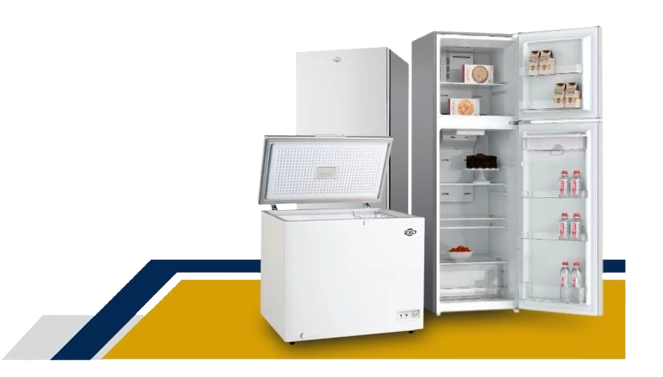
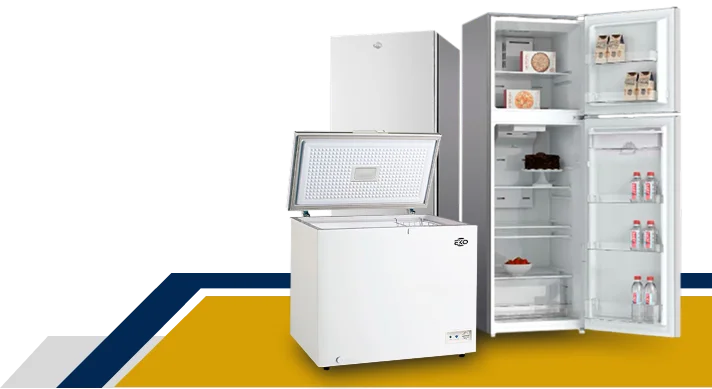
chore: update image assets and adjust home section layout
- Replace product images (vent.webp, pot.webp, etc.) with new assets (fan.webp, Illustration.webp)
- Update image references in banner and product section components
- Adjust responsive layout and spacing in the "More Products" section
- Improve product descriptions with more relevant marketing copy

diff --git a/sections/home/sectionMoreproducts.tsx b/sections/home/sectionMoreproducts.tsx
@@ -43,18 +43,18 @@ export default function SectionMoreproducts() {
           </h3>
       </div>
 
-      <div className="flex  flex-col mx-4 mt-5 sm:mt-0 xl:flex-row justify-center items-center gap-5">
+      <div className="flex  flex-col mx-4 mt-5 sm:mt-0 xl:flex-row justify-between xl:justify-center items-center xl:items-end gap-5 xl:mx-20 ">
+
         <div
           id="card1"
           data-animate="animate__backInLeft"
-          className=" flex justify-center items-center w-auto sm:w-140 2xl:w-160 xl:mt-7 xl:ml-20  overflow-hidden rounded-xl animate-on-scroll "
+          className=" flex justify-center items-center w-auto sm:w-140  xl:w-160  xl:mt-7   overflow-hidden animate-on-scroll max-w-100 sm:max-w-none "
         >
           <div className="z-10 w-1/3  xl:mb-10">
             <div className="text-black  ">
               <h4 className="font-bold text-xl">Ventiladores</h4>
-              <p className="text-xs w-42 sm:text-base sm:w-64 2xl:w-72">
-                Lorem ipsum dolor sit amet consectetur adipiscing elit hendrerit
-                scelerisque.
+              <p className="text-xs w-42 sm:text-base sm:w-64  xl:w-60 2xl:w-72">
+              Frescura y confort para cada ambiente, con modelos eficientes que se adaptan a cualquier espacio.
               </p>
               <div className="mt-5 w-30 sm:w-auto">
                 <ButtonPromoHome1
@@ -69,7 +69,7 @@ export default function SectionMoreproducts() {
 
           <div>
             <img
-              src="/images/vent.webp"
+              src="/images/fan.webp"
               alt="vent"
               className=" object-cover "
             />
@@ -79,13 +79,12 @@ export default function SectionMoreproducts() {
         <div
           id="card2"
           data-animate="animate__backInRight"
-          className=" flex w-auto  sm:w-140 2xl:w-160  justify-center items-center   animate-on-scroll"
+          className=" flex w-auto  sm:w-140 xl:w-160  justify-center items-center   animate-on-scroll max-w-100 sm:max-w-none "
         >
           <div className="w-1/9   text-black z-10 xl:mb-5">
-            <h4 className="font-bold text-xl w-50">Refrigeradores y Neveras</h4>
-            <p className="text-xs sm:text-base w-40 sm:w-64 xl:w-72  ">
-              Lorem ipsum dolor sit amet consectetur adipiscing elit hendrerit
-              scelerisque, blandit duis sapien.
+            <h4 className="font-bold text-xl w-50 xl:w-72">Refrigeradores y Neveras</h4>
+            <p className="text-xs sm:text-base w-40 sm:w-64 xl:w-65 2xl:w-75  ">
+              Conserva tus alimentos con la frescura y eficiencia que el hogar necesita, cada día.
             </p>
 
             <div className="mt-1 md:mt-5 w-40">
@@ -104,10 +103,12 @@ export default function SectionMoreproducts() {
             <img
               src="/images/Fridge.webp"
               alt="vent"
-              className="object-cover  sm:mt-5  ml-4 xl:mt-0"
+              className="object-cover"
             />
           </div>
         </div>
+
+        
       </div>
     </>
   );

diff --git a/components/banner/bannerMobilePay.tsx b/components/banner/bannerMobilePay.tsx
@@ -26,7 +26,7 @@ export const BannerMobilePay = () => {
             <img
               className="animate-on-scroll  [animation-delay:0.5s] h-50 sm:h-70  md:h-85 lg:h-auto"
               data-animate="animate__zoomIn"
-              src="/images/Ilustración.webp"
+              src="/images/Illustration.webp"
               alt="Ilustración"
             />
           </div>
